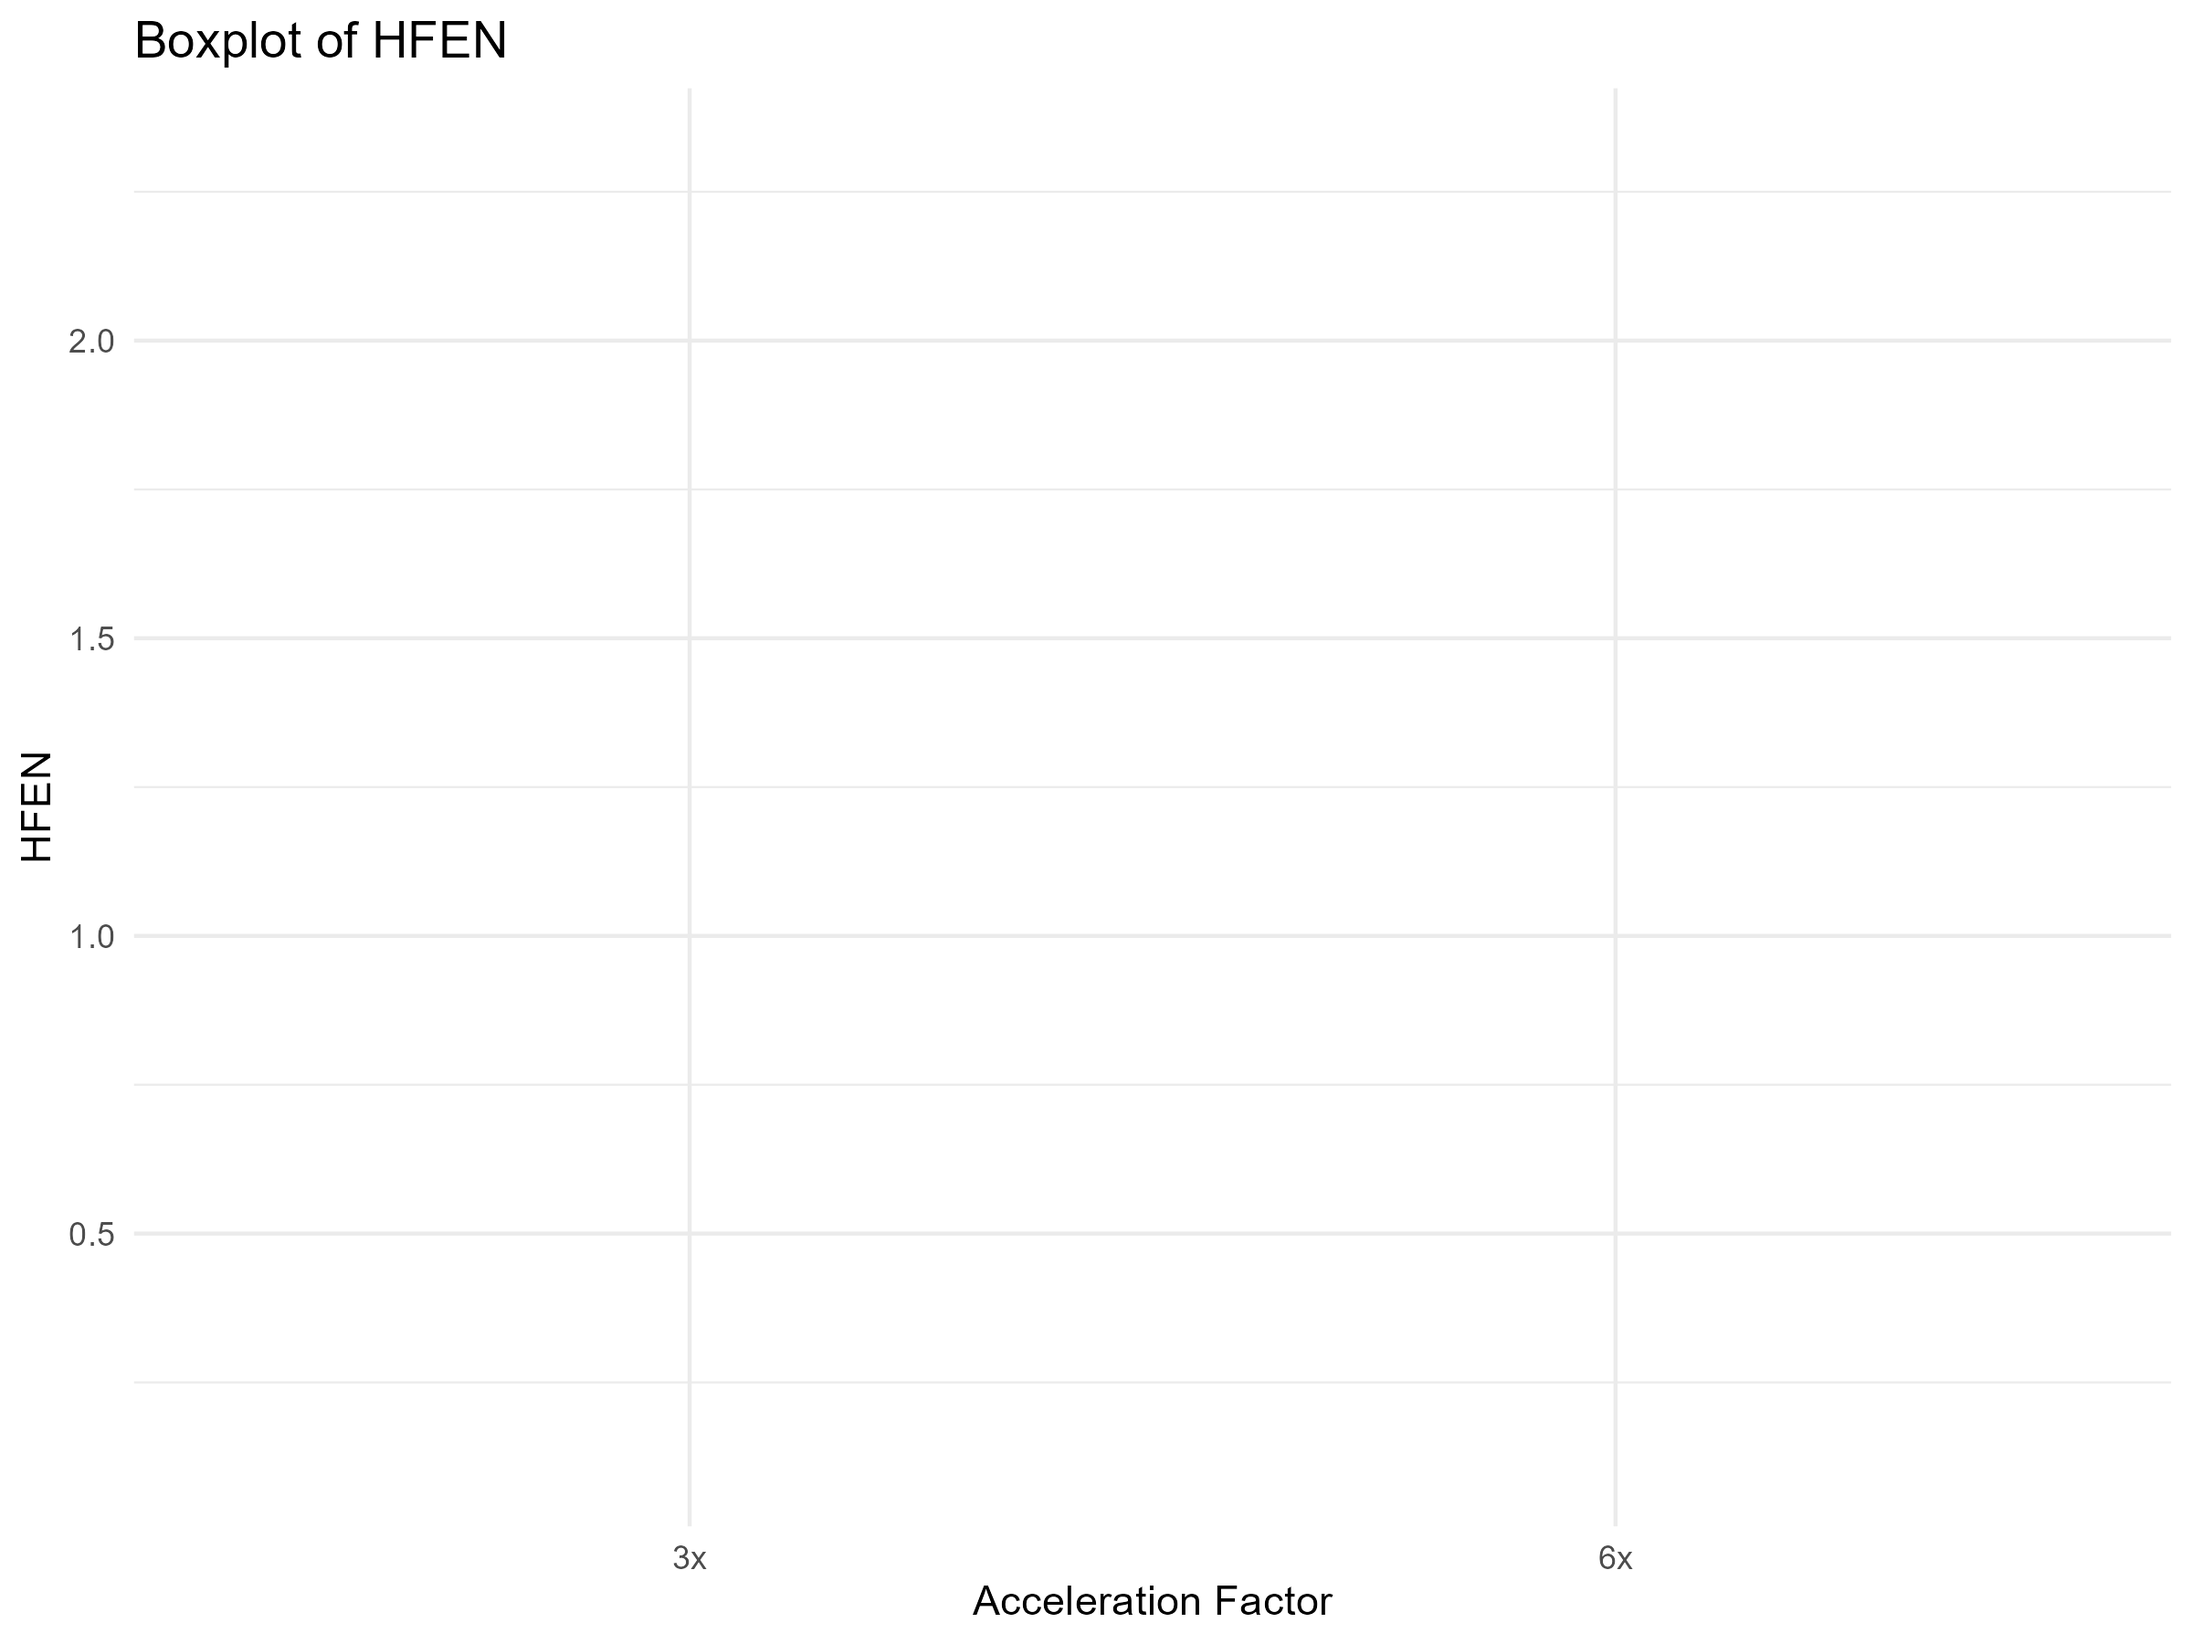
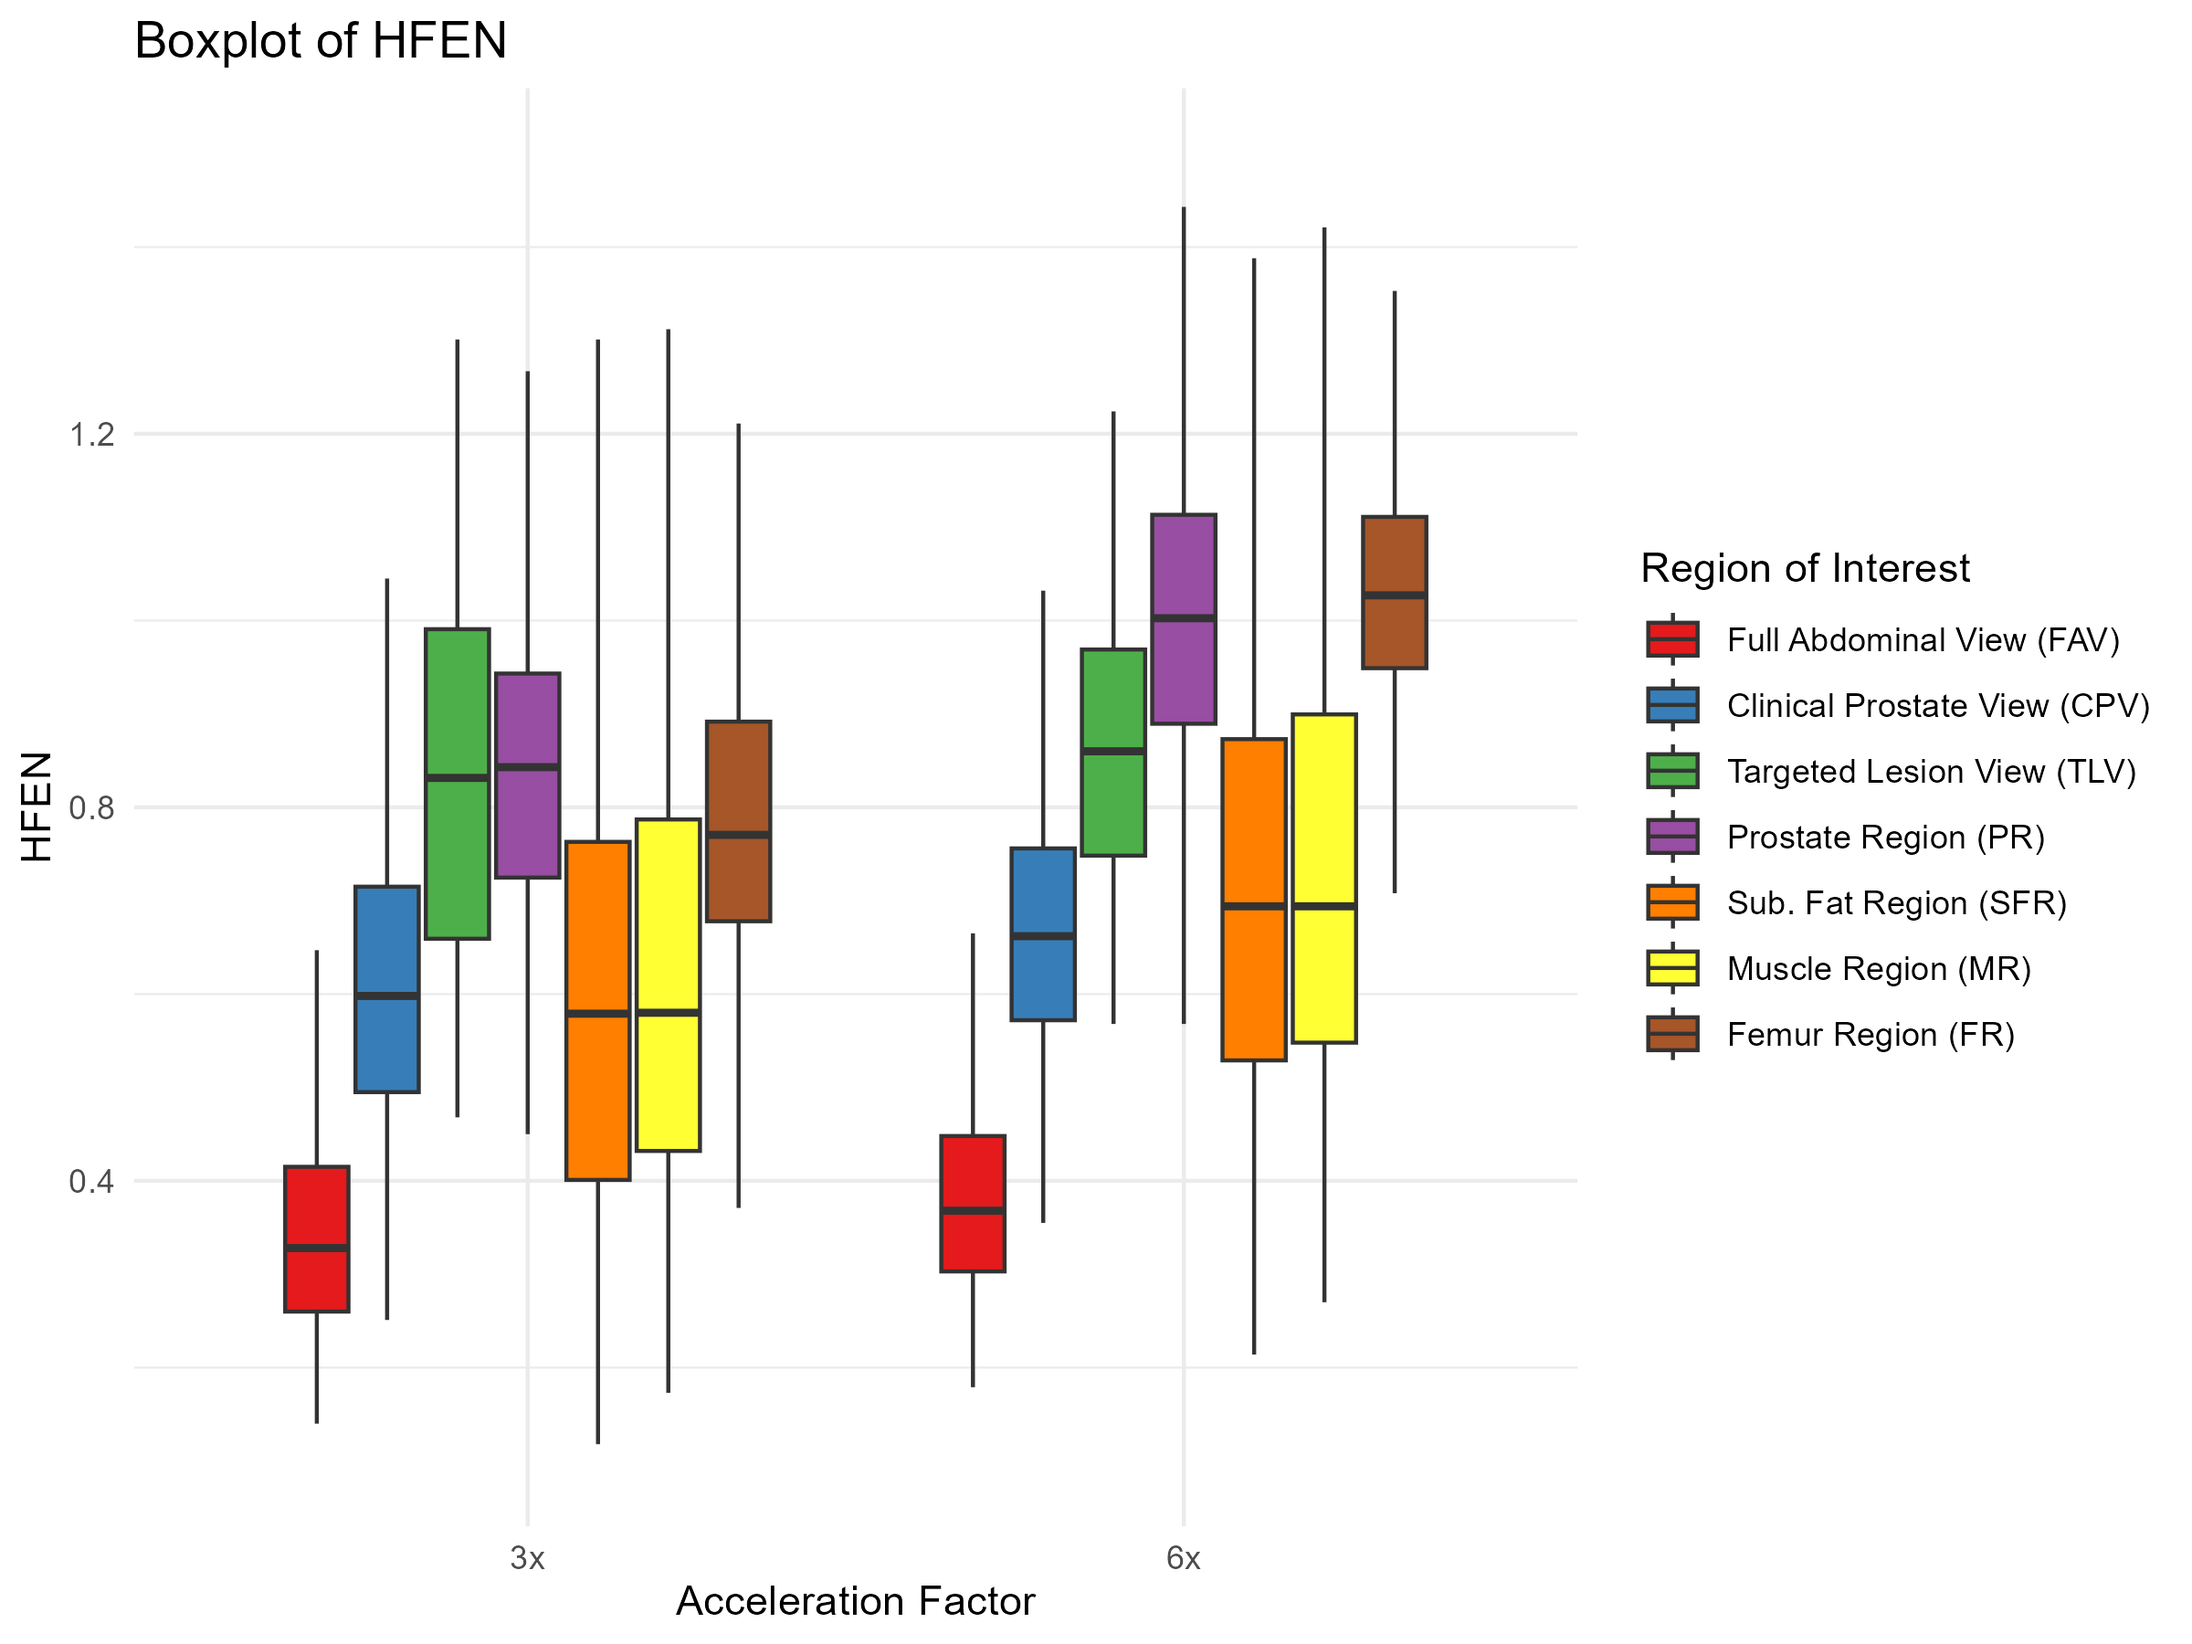
Added an R markdown script that loads the IQM data, preprocesses it and makes a boxplot. Now proceed with the statistical analysis.

diff --git a/scripts/assets/metrics.py b/scripts/assets/metrics.py
@@ -82,44 +82,6 @@ def rmse(gt: np.ndarray, pred: np.ndarray, iqm_mode: str = '3d') -> Union[float,
         raise ValueError("Unsupported dimensionality of input data")
 
 
-# def fastmri_ssim(gt: np.ndarray, pred: np.ndarray, iqm_mode: str = '3d') -> Union[float, List[float]]:
-#     """
-#     Compute SSIM compatible with the FastMRI challenge, supporting 2D and 3D modes.
-
-#     Parameters:
-#     - gt (np.ndarray): The ground truth (GT) image (3D).
-#     - pred (np.ndarray): The reconstructed image (3D).
-#     - iqm_mode (str): The mode of calculation ('2d' or '3d').
-    
-#     """
-#     assert gt.shape == pred.shape, "Shape mismatch between gt and pred."
-#     assert gt.dtype == pred.dtype, "Data type mismatch between gt and pred."
-
-#     if gt.ndim == 2:
-#         gt = np.expand_dims(gt, axis=0)
-#         pred = np.expand_dims(pred, axis=0)
-
-#     assert len(gt.shape) == 3, "Expecting 3D arrays."
-
-#     if iqm_mode == '2d':
-#         ssim_values = []
-#         for i in range(gt.shape[0]):
-#             ssim_value = ssim(
-#                 gt[i, :, :],
-#                 pred[i, :, :],
-#                 data_range=gt[i, :, :].max() - gt[i, :, :].min()
-#             )
-#             ssim_values.append(ssim_value)
-#         return ssim_values
-#     else:
-#         return ssim(
-#             gt,
-#             pred,
-#             channel_axis=0,
-#             data_range=gt.max() - gt.min()
-#         )
-
-
 def fastmri_ssim(gt: np.ndarray, pred: np.ndarray, iqm_mode: str = '3d') -> Union[float, List[float]]:
     """
     Compute SSIM compatible with the FastMRI challenge, supporting 2D and 3D modes.
